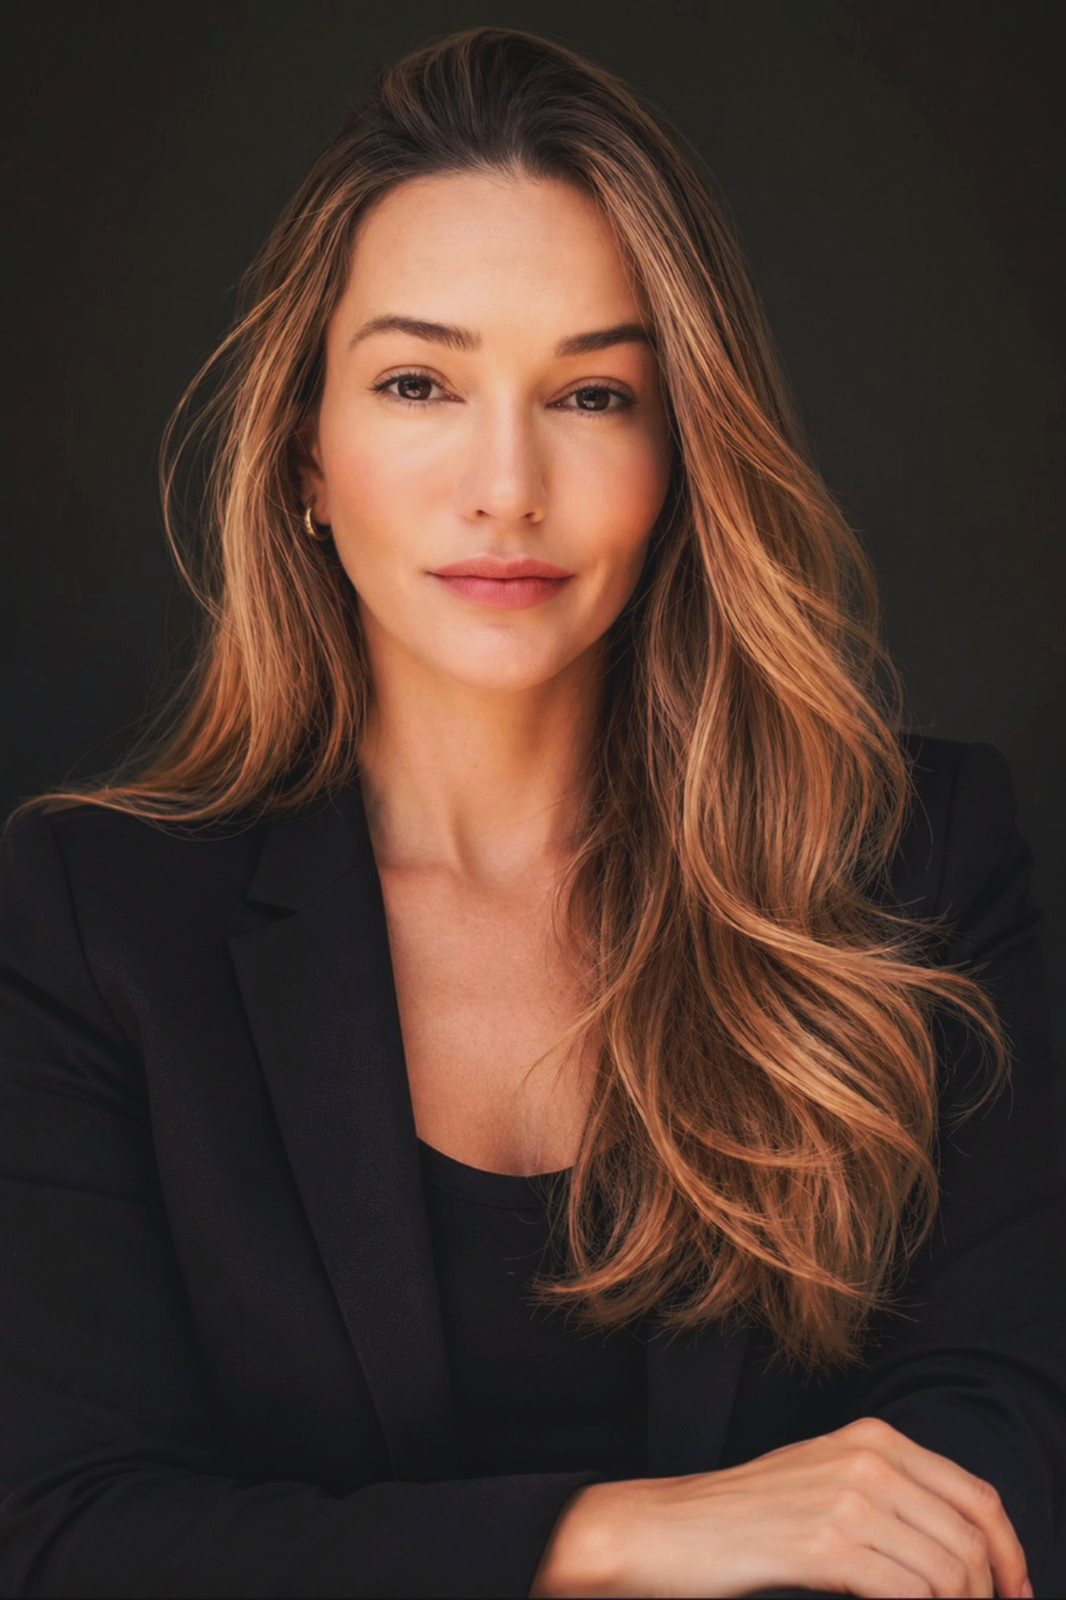
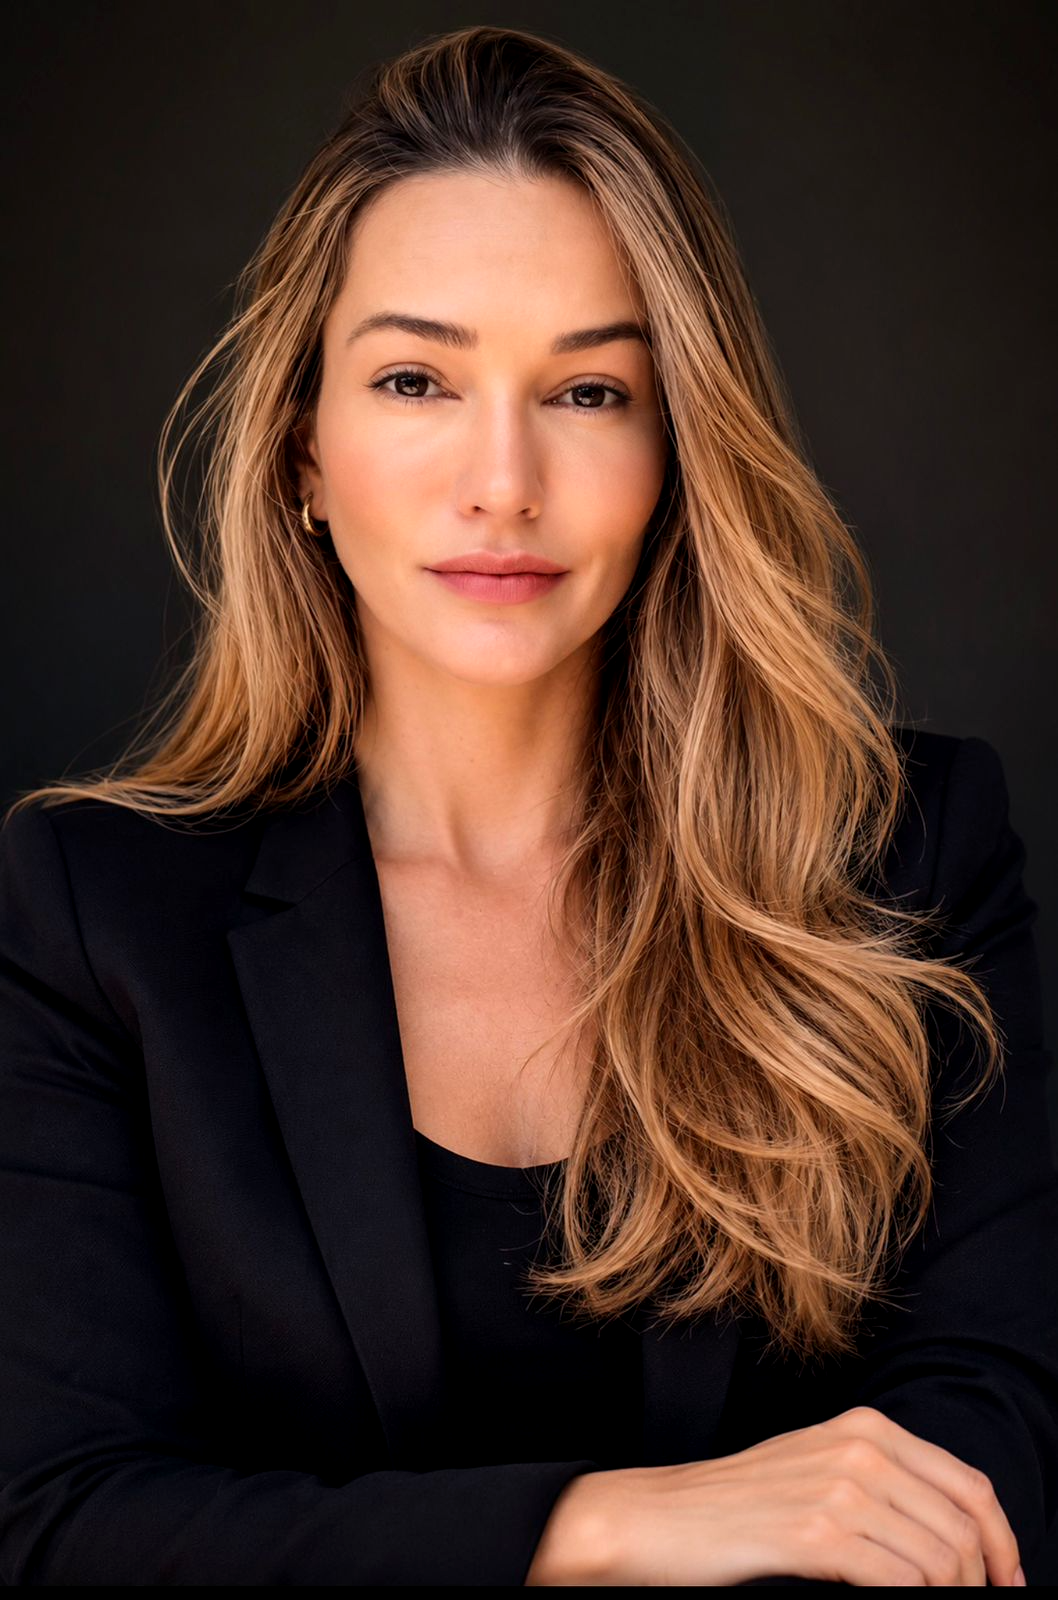
Add files via upload

diff --git a/index.html b/index.html
@@ -354,7 +354,7 @@ footer{background:#0A0908;padding:30px 52px;display:flex;justify-content:space-b
 <!-- FOOTER -->
 <footer>
   <div class="f-logo">The Bible Knew First.</div>
-  <div class="f-copy">© 2026 Ilana Horta · All rights reserved · <a href="/cdn-cgi/l/email-protection" class="__cf_email__" data-cfemail="a8c1c4c9c6c9e8c7d8cdc6cac1cac4c1c986cbc7c5">[email&#160;protected]</a></div>
+  <div class="f-copy">© 2026 Ilana Horta · All rights reserved · <a href="/cdn-cgi/l/email-protection" class="__cf_email__" data-cfemail="5831343936391837283d363a313a343139763b3735">[email&#160;protected]</a></div>
   <div class="f-ig"><a href="https://instagram.com/ilanahorta" style="color:inherit;">@ilanahorta ↗</a></div>
 </footer>
 